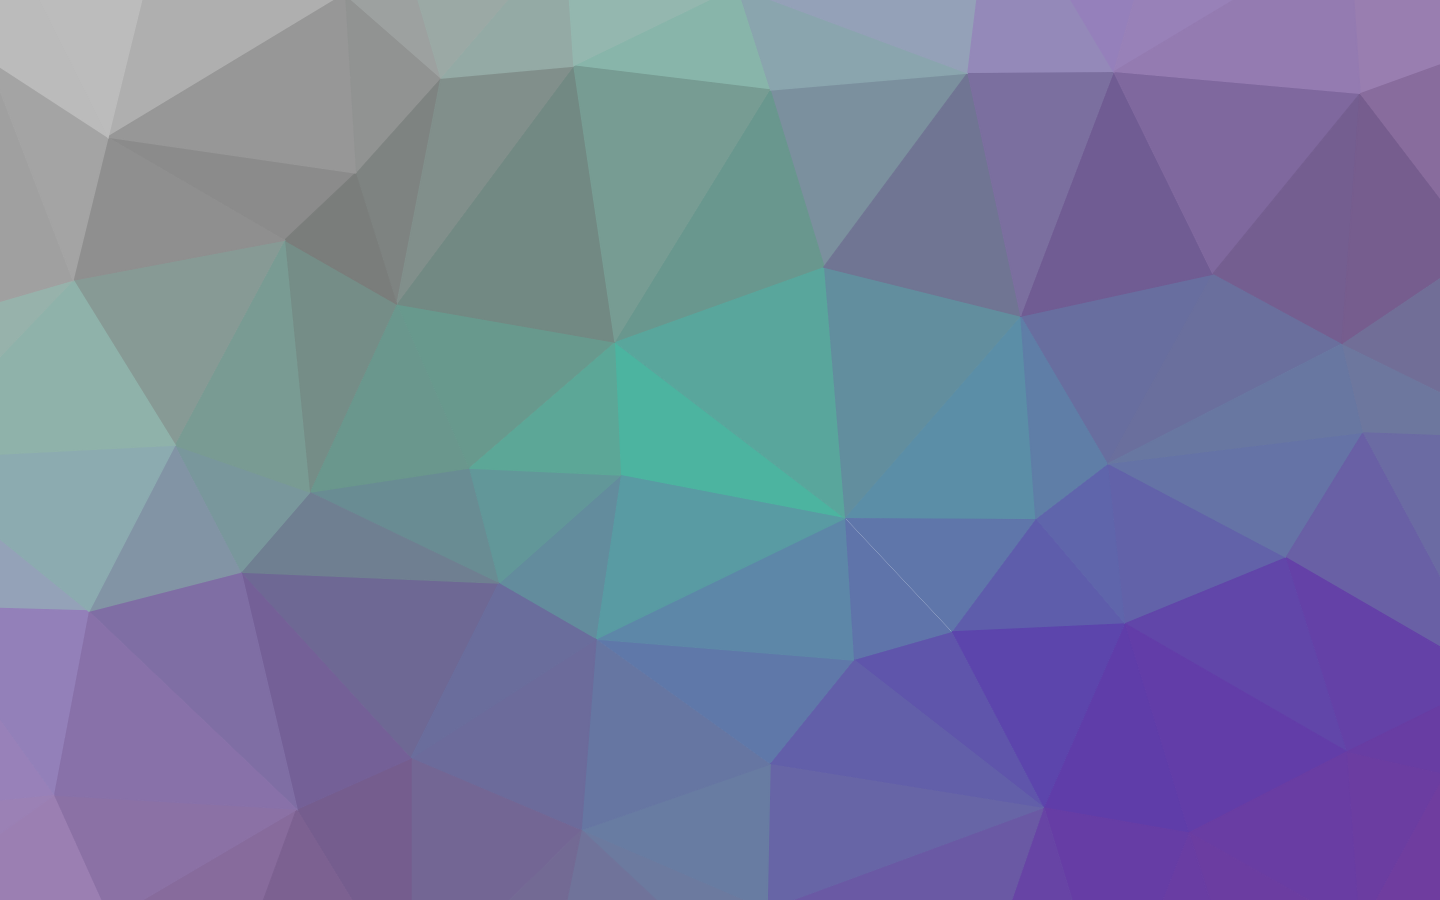
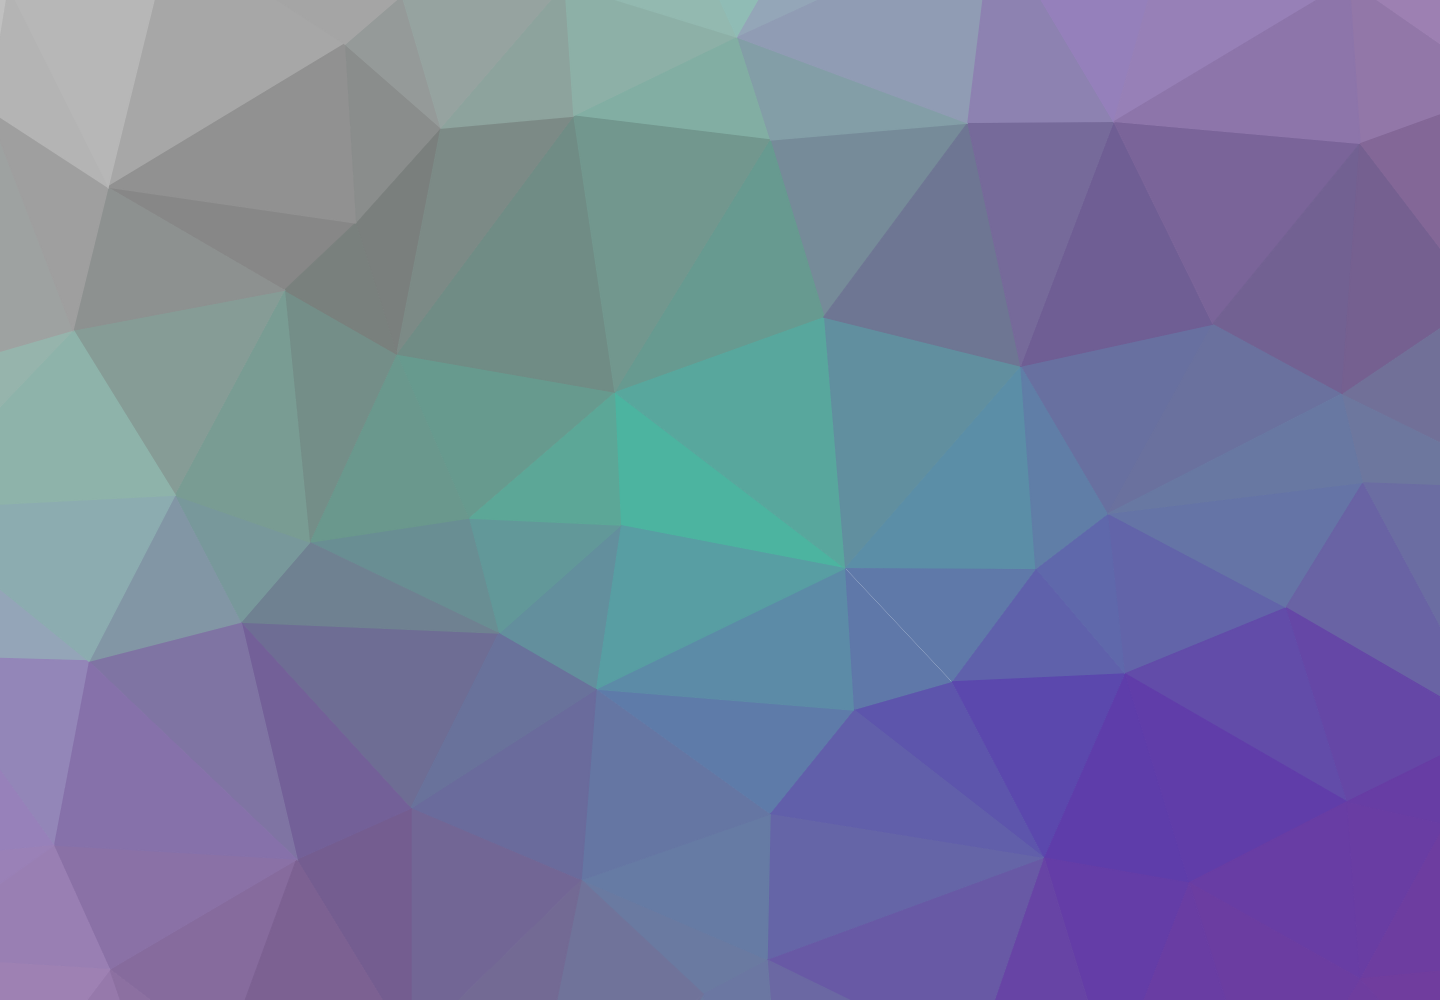
hintergrund hinzugefügtt und angepasst

diff --git a/index.css b/index.css
@@ -6,6 +6,9 @@
       padding: 0px;
       width: 100%;
       height: 100%;
+      background-image: url("indexbackground.png");
+      background-repeat: no-repeat;
+      background-size: 100%;
     }
 
     #überschrift {
